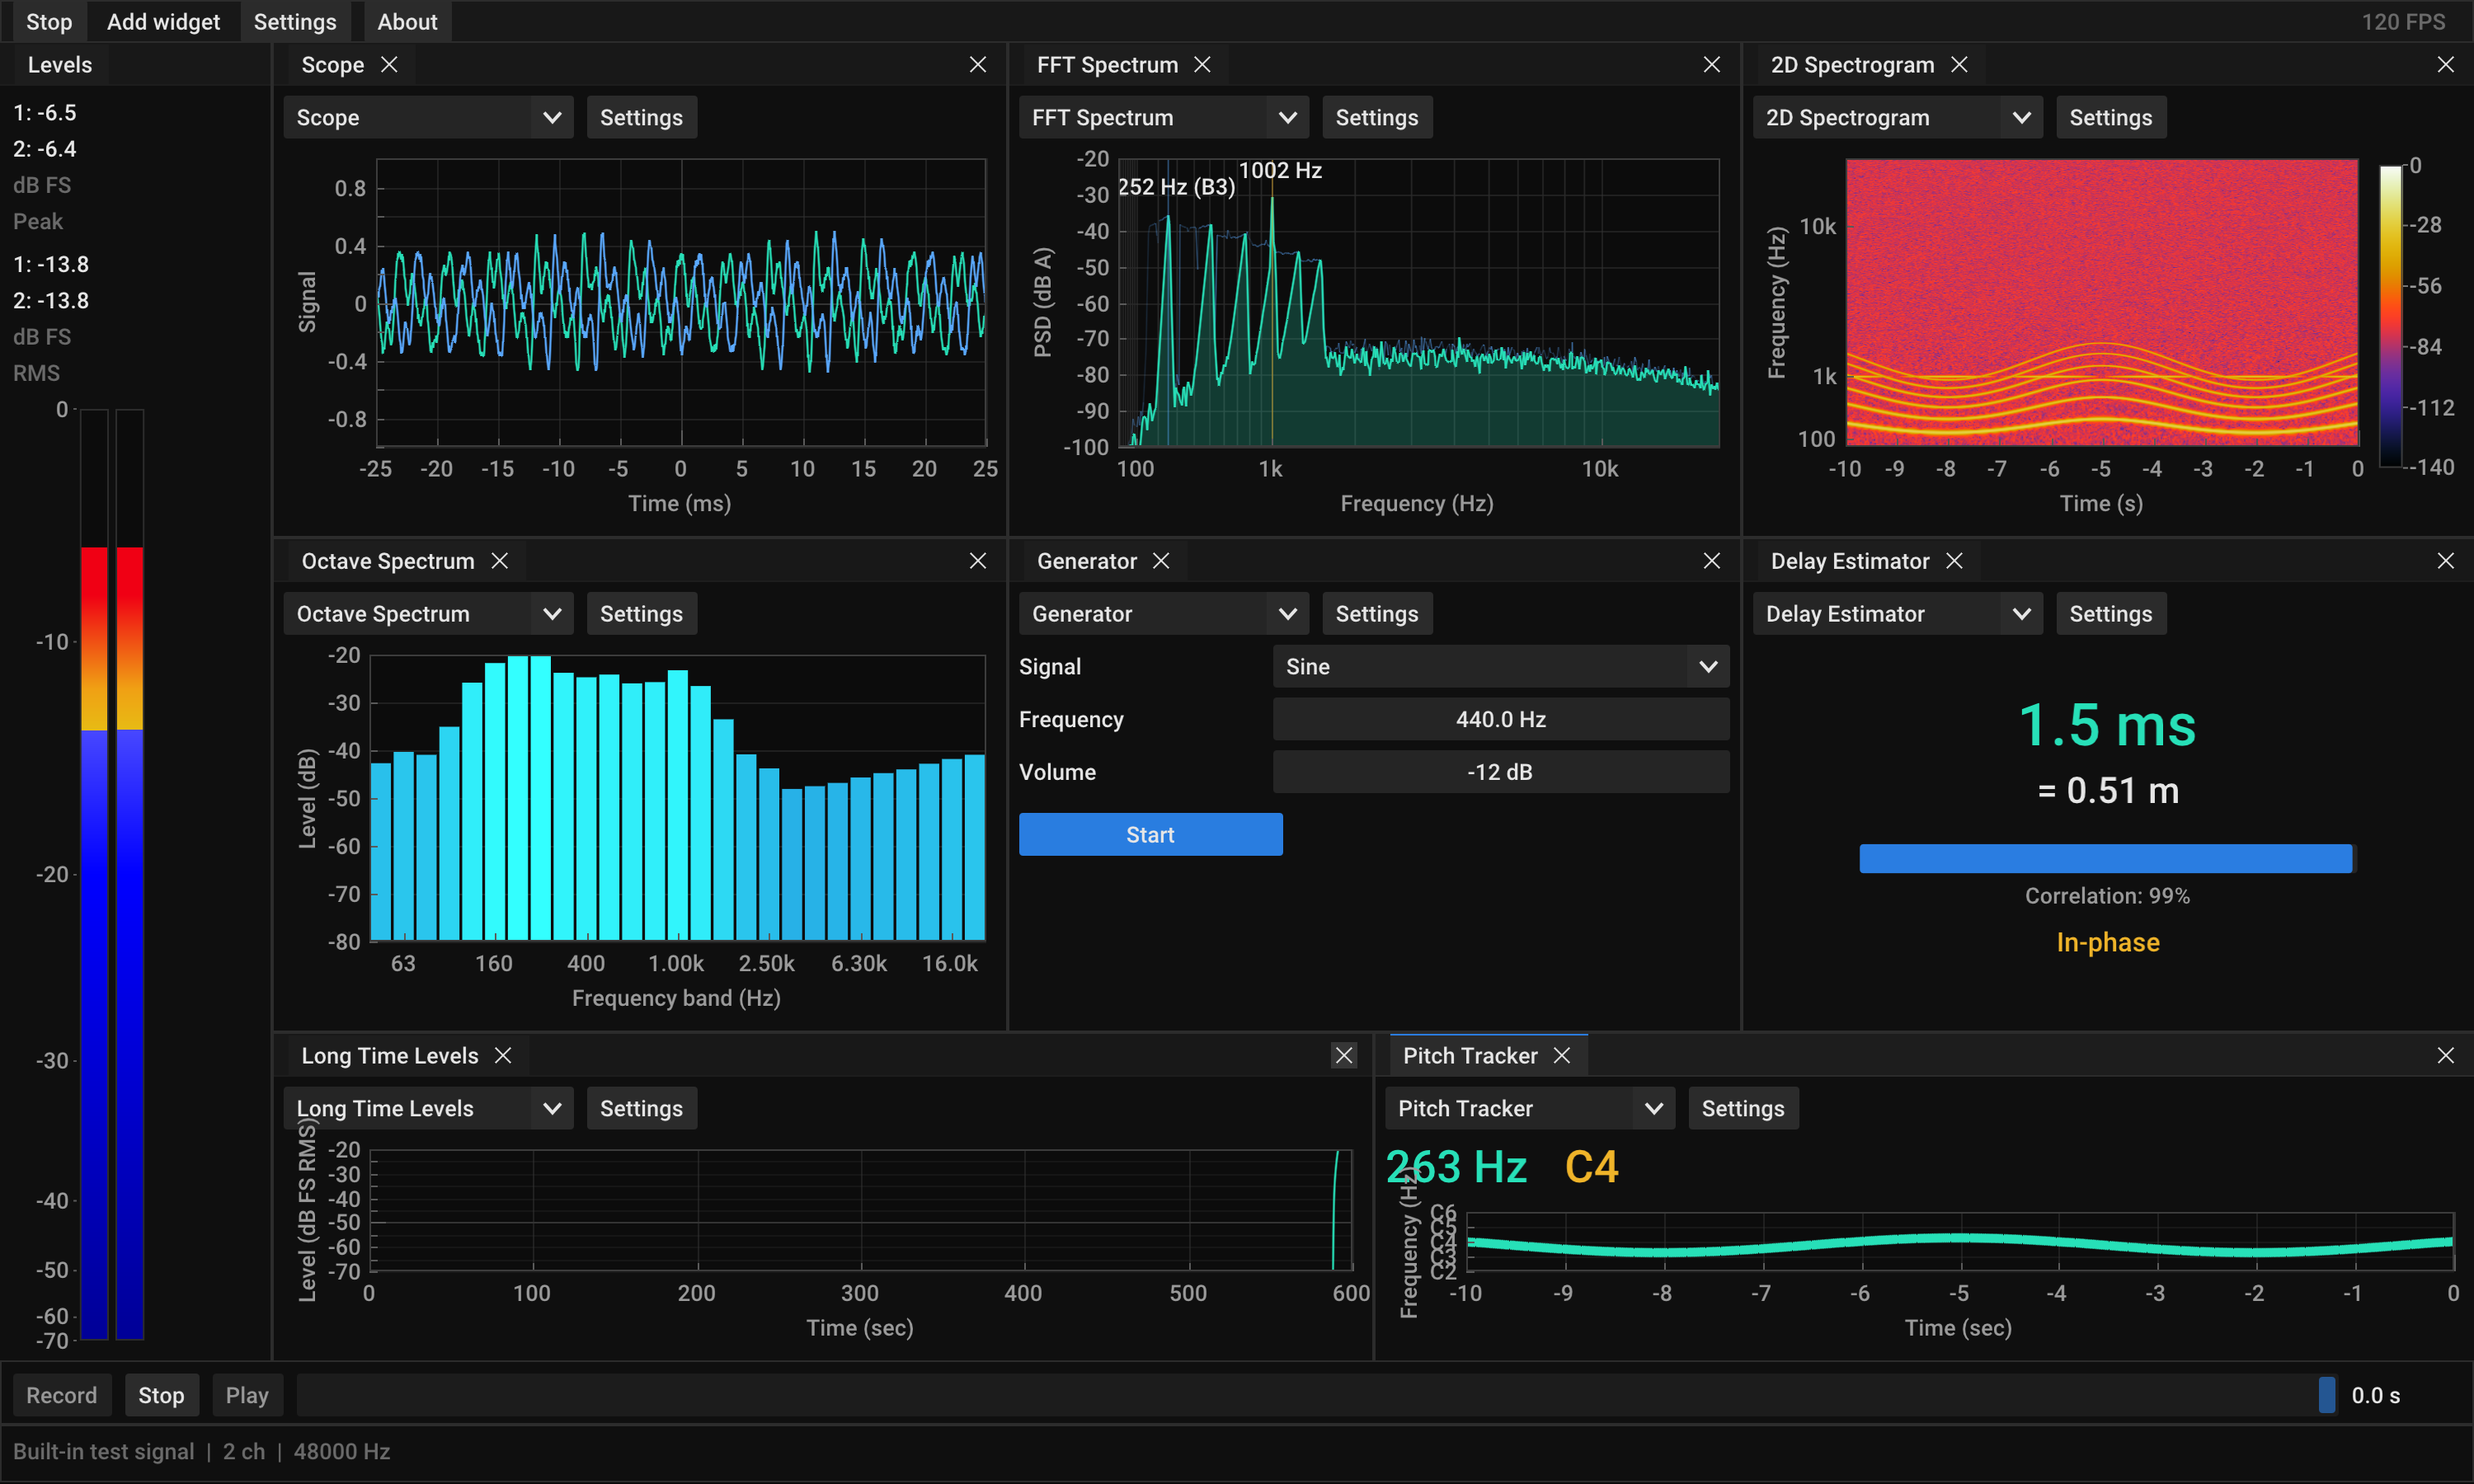
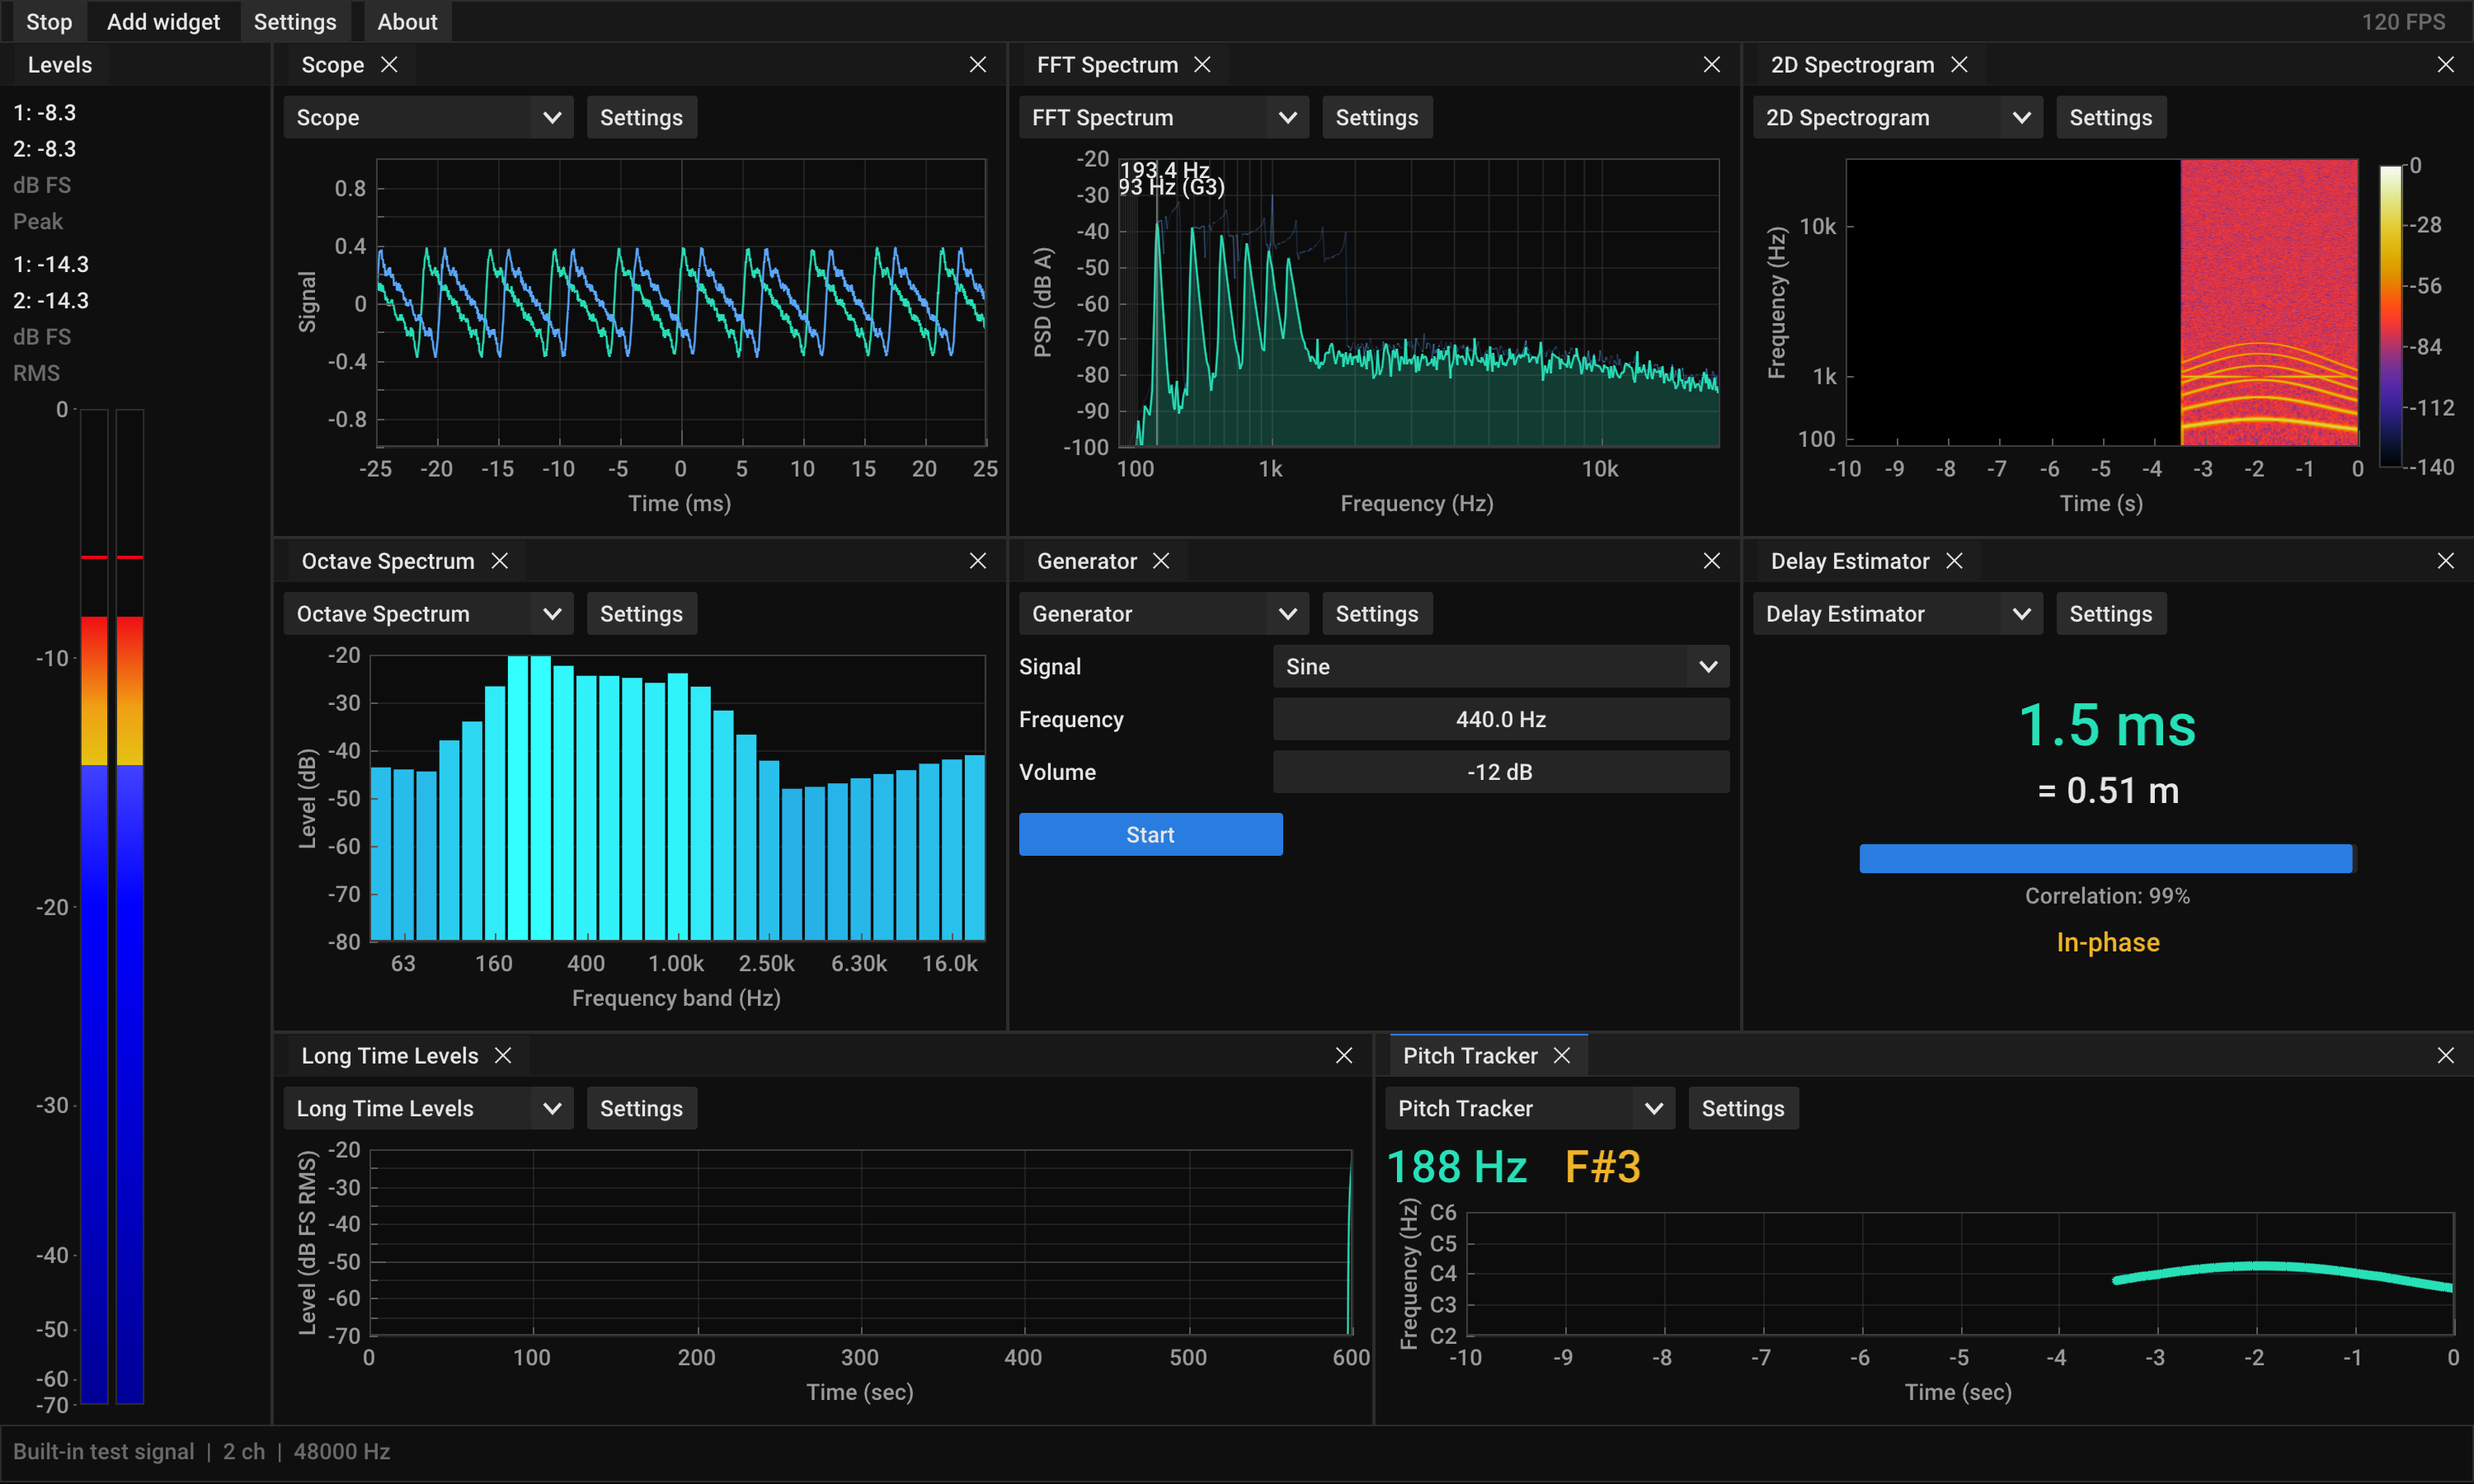
Remove record and playback feature

diff --git a/src/app.cpp b/src/app.cpp
@@ -105,12 +105,9 @@ bool App::init() {
     std::string err;
     if (!engine_.init(&err)) audioError_ = err;
     ctx_.engine = &engine_;
-    ctx_.player = &player_;
     ctx_.generator = &generator_;
     ctx_.ring.configure(1, 1 << 20);
     engine_.addOutputSource(&generator_);
-    engine_.addOutputSource(&player_);
-    player_.setHistorySeconds(historySeconds_);
     openSavedInput();
 
     if (listDevices_) {
@@ -169,8 +166,6 @@ void App::loadSettings() {
     fpsLimitIndex_ = std::clamp(settings_.getInt("ui.fpslimit", 0), 0, 7);
     showFps_ = settings_.getBool("ui.showfps", true);
     uiScale_ = pendingUiScale_ = (float)settings_.getDouble("ui.scale", 1.0);
-    showPlayback_ = settings_.getBool("audio.showplayback", true);
-    historySeconds_ = std::clamp(settings_.getInt("audio.history", 30), 1, 300);
     firstChannel_ = settings_.getInt("audio.first", 0);
     secondChannel_ = settings_.getInt("audio.second", 1);
     demo_ = settings_.getBool("audio.demo", false) || demoCli_;
@@ -195,8 +190,6 @@ void App::saveSettings() {
     settings_.set("ui.fpslimit", fpsLimitIndex_);
     settings_.set("ui.showfps", showFps_);
     settings_.set("ui.scale", (double)uiScale_);
-    settings_.set("audio.showplayback", showPlayback_);
-    settings_.set("audio.history", historySeconds_);
     settings_.set("audio.first", firstChannel_);
     settings_.set("audio.second", secondChannel_);
     settings_.set("audio.duo", duo_);
@@ -272,7 +265,7 @@ void App::reconfigureInput() {
 // ----------------------------------------------------------------- audio feed
 
 void App::feedAudio(double dt) {
-    if (!ctx_.recording) return;
+    if (!ctx_.running) return;
     if (!demo_ && !engine_.inputRunning()) return;
     const bool duo = duo_ && (demo_ || engine_.inputChannels() > 1);
     size_t n = 0;
@@ -300,7 +293,6 @@ void App::feedAudio(double dt) {
     if (n > 0) {
         const float* planar[2] = {fa_.data(), duo ? fb_.data() : fa_.data()};
         ctx_.ring.push(planar, n);
-        player_.push(fa_.data(), duo ? fb_.data() : nullptr, n);
     }
 
     levels_.onData(chunk_, dt);
@@ -312,15 +304,14 @@ void App::feedAudio(double dt) {
 void App::drawMainMenuBar() {
     if (!ImGui::BeginMainMenuBar()) return;
 
-    bool rec = ctx_.recording;
-    if (ImGui::Button(rec ? "Stop" : "Start")) {
-        if (rec) {
-            player_.stop();
+    bool running = ctx_.running;
+    if (ImGui::Button(running ? "Stop" : "Start")) {
+        if (running) {
             engine_.stopInput();
-            ctx_.recording = false;
+            ctx_.running = false;
         } else {
             if (!demo_) engine_.startInput();
-            ctx_.recording = true;
+            ctx_.running = true;
             for (auto& d : docks_) d->widget->onStreamReset();
         }
     }
@@ -341,55 +332,6 @@ void App::drawMainMenuBar() {
         ImGui::TextDisabled("%s", b);
     }
     ImGui::EndMainMenuBar();
-}
-
-void App::drawPlaybackBar(float height) {
-    ImGuiViewport* vp = ImGui::GetMainViewport();
-    ImGuiWindowFlags f = ImGuiWindowFlags_NoScrollbar | ImGuiWindowFlags_NoSavedSettings |
-                         ImGuiWindowFlags_NoDocking;
-    if (!ImGui::BeginViewportSideBar("##playback", vp, ImGuiDir_Down, height, f)) {
-        ImGui::End();
-        return;
-    }
-    double recorded = player_.recordedSeconds();
-    bool playing = player_.playing();
-    if (player_.takeFinished()) playing = false;
-
-    if (ctx_.recording) ImGui::BeginDisabled();
-    if (ImGui::Button("Record")) {
-        player_.stop();
-        if (!demo_) engine_.startInput();
-        ctx_.recording = true;
-        for (auto& d : docks_) d->widget->onStreamReset();
-    }
-    if (ctx_.recording) ImGui::EndDisabled();
-    ImGui::SameLine();
-    if (!ctx_.recording && !playing) ImGui::BeginDisabled();
-    if (ImGui::Button("Stop")) {
-        if (playing) player_.stop();
-        else {
-            engine_.stopInput();
-            ctx_.recording = false;
-        }
-    }
-    if (!ctx_.recording && !playing) ImGui::EndDisabled();
-    ImGui::SameLine();
-    if (ctx_.recording || playing || recorded <= 0.0) ImGui::BeginDisabled();
-    if (ImGui::Button("Play")) player_.play(playStart_);
-    if (ctx_.recording || playing || recorded <= 0.0) ImGui::EndDisabled();
-
-    ImGui::SameLine();
-    float lo = -(float)std::max(recorded, 0.1);
-    if (playing) playPos_ = (float)player_.playbackTime();
-    else playPos_ = std::clamp(playStart_, lo, 0.f);
-    if (!playing) playStart_ = playPos_;
-    ImGui::SetNextItemWidth(ImGui::GetContentRegionAvail().x - ImGui::CalcTextSize("-000.0 s").x - 24);
-    if (ctx_.recording || playing) ImGui::BeginDisabled();
-    ImGui::SliderFloat("##pos", &playStart_, lo, 0.f, "");
-    if (ctx_.recording || playing) ImGui::EndDisabled();
-    ImGui::SameLine();
-    ImGui::Text("%.1f s", playing ? playPos_ : playStart_);
-    ImGui::End();
 }
 
 void App::drawStatusBar(float height) {
@@ -473,7 +415,7 @@ void App::drawAudioSettings() {
             demo_ = true;
             engine_.stopInput();
             audioError_.clear();
-            ctx_.recording = true;
+            ctx_.running = true;
             reconfigureInput();
         }
         for (int i = 0; i < (int)ins.size(); ++i) {
@@ -483,7 +425,7 @@ void App::drawAudioSettings() {
                 if (engine_.openInput(i, &err)) {
                     demo_ = false;
                     audioError_.clear();
-                    ctx_.recording = true;
+                    ctx_.running = true;
                     reconfigureInput();
                 } else {
                     audioError_ = err;
@@ -504,10 +446,8 @@ void App::drawAudioSettings() {
     if (ui::combo("Input mode", mode, modes, nch > 1 ? 2 : 1)) duo_ = mode == 1;
     ui::combo(duo_ ? "First channel" : "Channel", firstChannel_, chPtrs.data(), nch);
     if (duo_ && nch > 1) ui::combo("Second channel", secondChannel_, chPtrs.data(), nch);
-    if (ui::spinInt("History length", historySeconds_, 1, 300, " s")) player_.setHistorySeconds(historySeconds_);
-    ui::check("Show playback controls", showPlayback_);
 
-    ImGui::SeparatorText("Audio output (generator and playback)");
+    ImGui::SeparatorText("Audio output (generator)");
     const auto& outs = engine_.outputDevices();
     int ocur = engine_.outputIndex();
     ui::label("Output device");
@@ -644,7 +584,6 @@ void App::run() {
         drawMainMenuBar();
         const float barH = ImGui::GetFrameHeight() + ImGui::GetStyle().WindowPadding.y * 1.2f;
         drawStatusBar(barH);
-        if (showPlayback_) drawPlaybackBar(barH * 1.1f);
 
         ImGuiID dockspace = ImGui::DockSpaceOverViewport(0, ImGui::GetMainViewport());
         if (freshLayout_ && !layoutBuilt) {

diff --git a/src/app.hpp b/src/app.hpp
@@ -7,7 +7,6 @@
 #include "audio/demo_source.hpp"
 #include "audio/engine.hpp"
 #include "audio/generator.hpp"
-#include "audio/player.hpp"
 #include "settings.hpp"
 #include "ui/levels_panel.hpp"
 #include "widgets/widget.hpp"
@@ -50,7 +49,6 @@ private:
     // frame pieces
     void feedAudio(double dt);
     void drawMainMenuBar();
-    void drawPlaybackBar(float height);
     void drawStatusBar(float height);
     void drawDock(Dock& d);
     void drawLevels();
@@ -70,7 +68,6 @@ private:
     GLFWwindow* window_ = nullptr;
     Context ctx_;
     AudioEngine engine_;
-    Player player_;
     SignalGenerator generator_;
     LevelsPanel levels_;
     Settings settings_;
@@ -83,8 +80,6 @@ private:
     // audio config
     int firstChannel_ = 0, secondChannel_ = 1;
     bool duo_ = false;
-    int historySeconds_ = 30;
-    bool showPlayback_ = true;
     std::string savedInputName_, savedOutputName_;
     std::string audioError_;
     bool demo_ = false;
@@ -92,10 +87,6 @@ private:
     double demoCarry_ = 0.0;
     Chunk chunk_;
     std::vector<float> fa_, fb_;
-
-    // playback transport
-    float playStart_ = 0.f;  // slider value, seconds (<= 0)
-    float playPos_ = 0.f;
 
     // display
     bool vsync_ = true;

diff --git a/src/widgets/widget.hpp b/src/widgets/widget.hpp
@@ -11,17 +11,15 @@
 namespace fr {
 
 class AudioEngine;
-class Player;
 class SignalGenerator;
 
 // State shared by all widgets.
 struct Context {
     RingBuffer ring;          // live input history
     AudioEngine* engine = nullptr;
-    Player* player = nullptr;
     SignalGenerator* generator = nullptr;
     int channels = 1;         // 1 or 2 active input channels
-    bool recording = true;    // live capture running
+    bool running = true;      // live capture running
     float uiScale = 1.f;
 };
 

diff --git a/src/audio/engine.hpp b/src/audio/engine.hpp
@@ -16,7 +16,7 @@ struct DeviceInfo {
     int maxChannels = 2;
 };
 
-// Producers of output audio (generator, history playback). mixInto() runs on
+// Producers of output audio (e.g. signal generator). mixInto() runs on
 // the audio thread and must *add* into the interleaved buffer.
 class OutputSource {
 public:

diff --git a/README.md b/README.md
@@ -18,7 +18,7 @@ the real-time audio analyzer, with a flat dark look.
 | Pitch Tracker | SWIPE-style pitch estimate with note names |
 | Generator | Sine, white/pink noise, log sweep and burst on any output device |
 
-Plus IEC peak / RMS level meters, record and playback of the last N seconds, free docking, and a persisted layout.
+Plus IEC peak / RMS level meters, free docking, and a persisted layout.
 
 ## Build
 
@@ -26,6 +26,8 @@ Needs CMake, Ninja and a C++17 compiler. Dependencies (GLFW, Dear ImGui, ImPlot,
 are fetched by CMake.
 
 ```sh
+git clone https://github.com/SolidifiedPlayDoh/friture-imgui.git
+cd friture-imgui
 cmake -S . -B build -G Ninja -DCMAKE_BUILD_TYPE=Release
 ninja -C build
 ./build/friture
